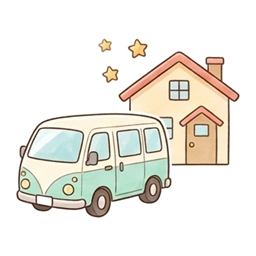
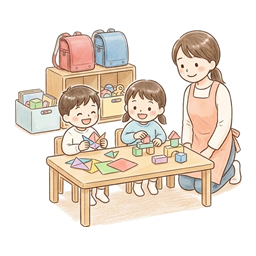
Update dayservice illustration and make kid mode single-column

diff --git a/life/daily-schedule/style.css b/life/daily-schedule/style.css
@@ -312,6 +312,9 @@ button {
 
 .workspace-layout.is-kid-mode {
   grid-template-columns: 1fr;
+  max-width: 760px;
+  width: 100%;
+  margin: 0 auto;
 }
 
 .workspace-layout.is-kid-mode .picker-panel,
@@ -398,8 +401,8 @@ button {
 }
 
 .workspace-layout.is-kid-mode .cards-list {
-  display: grid;
-  grid-template-columns: repeat(auto-fill, minmax(230px, 1fr));
+  display: flex;
+  flex-direction: column;
   gap: 14px;
 }
 
@@ -445,19 +448,29 @@ button {
   color: var(--done-accent);
 }
 
-/* Kid-mode big visual tile layout */
+/* Kid-mode big single-column visual card layout */
 .workspace-layout.is-kid-mode .sched-card {
-  grid-template-columns: 1fr;
-  justify-items: center;
-  text-align: center;
-  padding: 18px 14px;
-  gap: 10px;
+  grid-template-columns: auto 108px minmax(0, 1fr);
+  align-items: center;
+  text-align: left;
+  padding: 16px 20px;
+  gap: 16px;
   cursor: pointer;
 }
 
+.workspace-layout.is-kid-mode .check-btn {
+  width: 54px;
+  height: 54px;
+  font-size: 1.6rem;
+}
+
 .workspace-layout.is-kid-mode .sched-img {
-  width: 118px;
-  height: 118px;
+  width: 108px;
+  height: 108px;
+}
+
+.workspace-layout.is-kid-mode .sched-label {
+  font-size: clamp(1.3rem, 2.8vw, 1.55rem);
 }
 
 .workspace-layout.is-kid-mode .sched-time-edit {
@@ -466,6 +479,7 @@ button {
 
 .workspace-layout.is-kid-mode .sched-time-display {
   display: inline-block;
+  font-size: 1.08rem;
 }
 
 .check-btn {
@@ -513,10 +527,6 @@ button {
   flex-wrap: wrap;
   align-items: center;
   gap: 8px;
-}
-
-.workspace-layout.is-kid-mode .sched-top-row {
-  justify-content: center;
 }
 
 .sched-time-display {
@@ -836,6 +846,19 @@ button {
   .sched-img {
     width: 66px;
     height: 66px;
+  }
+  .workspace-layout.is-kid-mode .sched-card {
+    grid-template-columns: auto 84px minmax(0, 1fr);
+    padding: 12px 14px;
+    gap: 12px;
+  }
+  .workspace-layout.is-kid-mode .sched-img {
+    width: 84px;
+    height: 84px;
+  }
+  .workspace-layout.is-kid-mode .check-btn {
+    width: 46px;
+    height: 46px;
   }
 }
 
